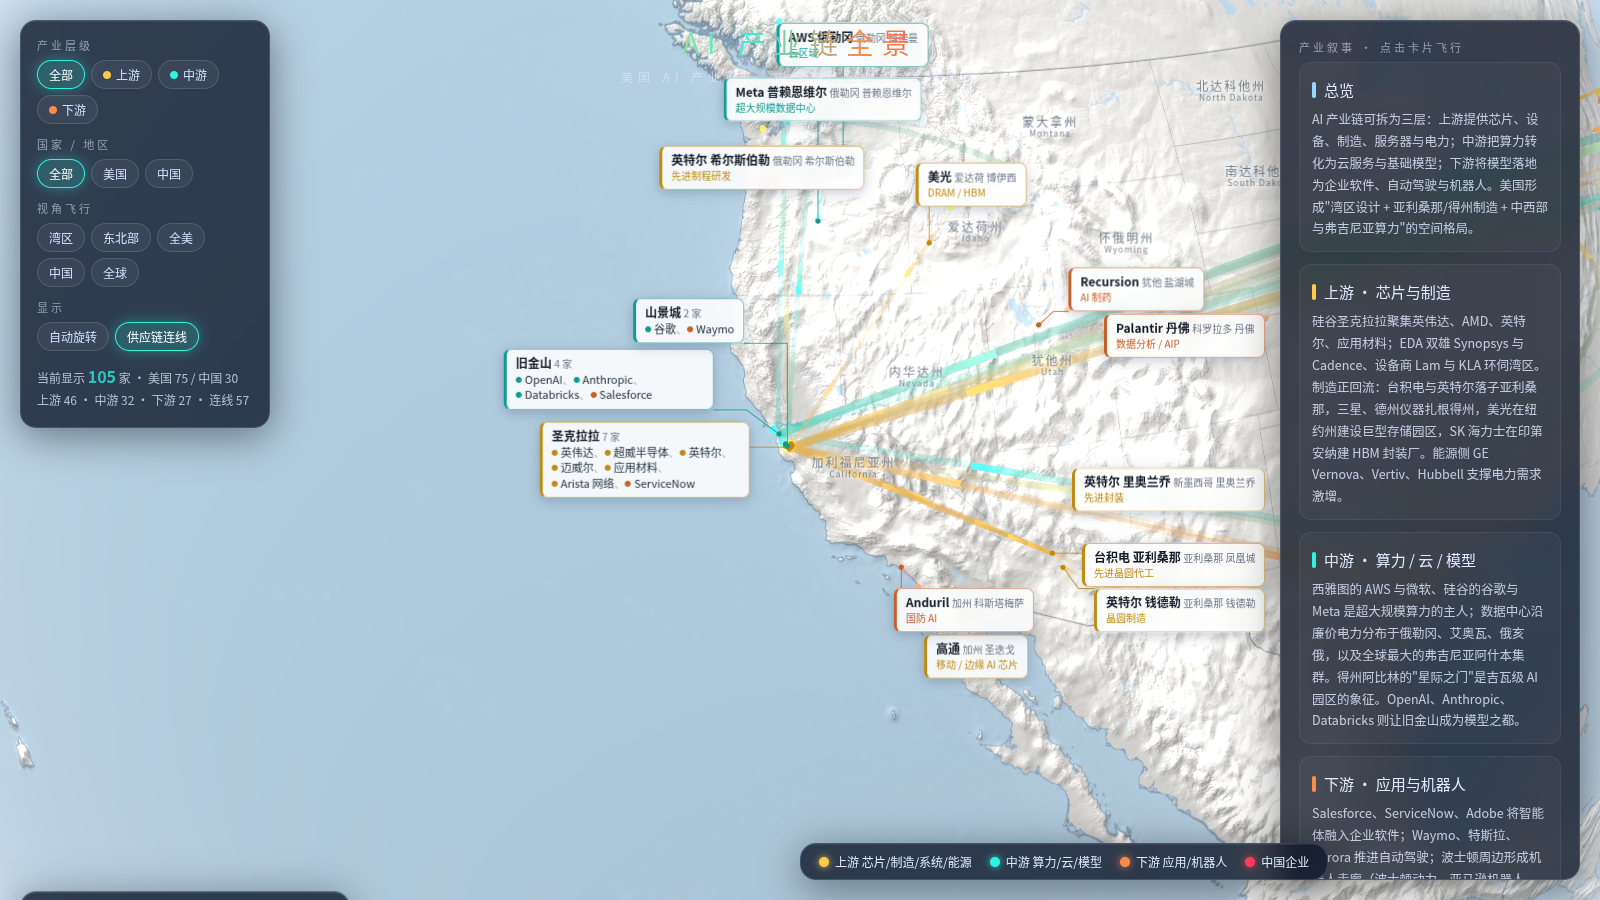
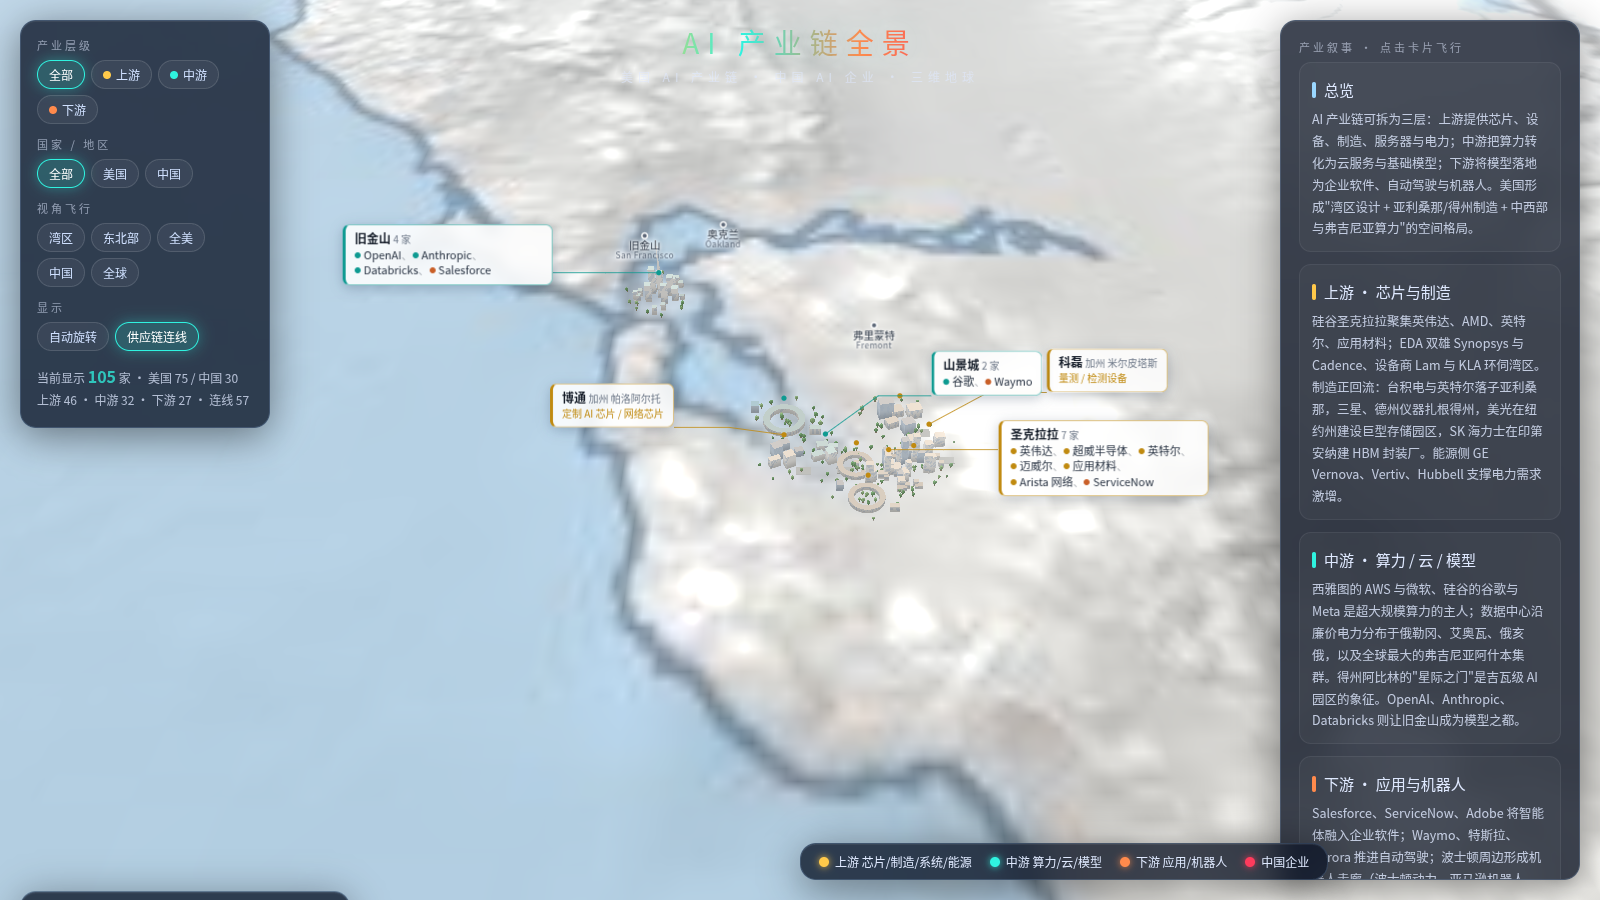
2.5D 微缩建筑群：按角色程序化生成（晶圆厂/园区环/数据中心/市中心/工厂/办公），倾斜视角预设

diff --git a/index.html b/index.html
@@ -245,7 +245,7 @@ const scene=new THREE.Scene();
 const camera=new THREE.PerspectiveCamera(42,innerWidth/innerHeight,.01,200);
 camera.position.set(0,0,14);
 const controls=new OrbitControls(camera,renderer.domElement);
-controls.enableDamping=true;controls.dampingFactor=.06;controls.minDistance=1.25;controls.maxDistance=12;controls.rotateSpeed=.5;controls.zoomSpeed=.7;controls.enablePan=false;
+controls.enableDamping=true;controls.dampingFactor=.06;controls.minDistance=1.03;controls.maxDistance=12;controls.rotateSpeed=.5;controls.zoomSpeed=.7;controls.enablePan=false;
 controls.autoRotateSpeed=.35;
 
 const ll2v=(lat,lon,r=R)=>{const p=(90-lat)*Math.PI/180,t=(lon+180)*Math.PI/180;return new THREE.Vector3(-r*Math.sin(p)*Math.cos(t),r*Math.cos(p),r*Math.sin(p)*Math.sin(t));};
@@ -348,13 +348,17 @@ function updateStats(){const v=markers.filter(visible);const cnt=k=>v.filter(o=>
 const grp=(id,attr,fn)=>document.querySelectorAll(`#${id} button`).forEach(b=>b.onclick=()=>{document.querySelectorAll(`#${id} button`).forEach(x=>x.classList.remove('on'));b.classList.add('on');fn(b.dataset[attr]);});
 grp('layerBtns','l',v=>{fLayer=v;applyFilter();});
 grp('ctyBtns','c',v=>{fCty=v;applyFilter();if(v==='CN')flyTo('cn');else if(v==='US')flyTo('us');});
-const rotBtn=document.getElementById('rotBtn');rotBtn.onclick=()=>{controls.autoRotate=!controls.autoRotate;rotBtn.classList.toggle('on',controls.autoRotate);};
+const rotBtn=document.getElementById('rotBtn');rotBtn.onclick=()=>{if(!controls.autoRotate&&controls.target.lengthSq()>0){flyTo('globe');setTimeout(()=>{controls.autoRotate=true;rotBtn.classList.add('on');},2300);return;}controls.autoRotate=!controls.autoRotate;rotBtn.classList.toggle('on',controls.autoRotate);};
 const arcBtn=document.getElementById('arcBtn');arcBtn.onclick=()=>{showArcs=!showArcs;arcBtn.classList.toggle('on',showArcs);};
 
-const PRESETS={bay:[37.3,-121.6,1.62],ne:[41.2,-75.5,1.9],us:[38.5,-97,2.7],cn:[33,112,2.6],globe:[30,-40,4.2]};
+const PRESETS={bay:[37.5,-122.12,.03,46],ne:[41.4,-74.2,.5,42],us:[38.5,-97,2.7],cn:[29.5,113.5,.95,38],globe:[30,-40,4.2]};
 let fly=null;
-function flyTo(k,latlon){const [lat,lon,d]=latlon||PRESETS[k];const from=camera.position.clone();const to=ll2v(lat,lon,d);
- fly={from,to,t:0,dur:2.2};controls.autoRotate=false;rotBtn.classList.remove('on');}
+function flyTo(k,latlon){const [lat,lon,d,tilt=0]=latlon||PRESETS[k];const from=camera.position.clone();let to,tgt;
+ if(tilt){tgt=ll2v(lat,lon,R);const n=tgt.clone().normalize();const east=new THREE.Vector3(0,1,0).cross(n).normalize();const north=n.clone().cross(east);
+  const tr=tilt*Math.PI/180;to=tgt.clone().addScaledVector(n,Math.cos(tr)*d).addScaledVector(north,-Math.sin(tr)*d);}
+ else{to=ll2v(lat,lon,d);tgt=new THREE.Vector3();}
+ controls.minDistance=.02;controls.maxDistance=12;
+ fly={from,to,t:0,dur:2.2,tf:controls.target.clone(),tt:tgt,surf:!!tilt};controls.autoRotate=false;rotBtn.classList.remove('on');}
 document.querySelectorAll('#flyBtns button').forEach(b=>b.onclick=()=>{document.querySelectorAll('#flyBtns button').forEach(x=>x.classList.remove('on'));b.classList.add('on');flyTo(b.dataset.f);});
 const ease=t=>t<.5?4*t*t*t:1-Math.pow(-2*t+2,3)/2;
 function slerpCam(f,t){const a=f.from.length(),b=f.to.length();const da=f.from.clone().normalize(),db=f.to.clone().normalize();
@@ -407,6 +411,93 @@ function buildCards(){groups.forEach(g=>{g.vis=g.ms.filter(visible);if(!g.vis.le
  else g.el.innerHTML=`<b>${g.city.split(' ').pop()}</b> <span class="c">${g.vis.length} 家</span><div>${g.vis.map(o=>`<span class="n" data-id="${o.id}"><i style="display:inline-block;width:6px;height:6px;border-radius:50%;margin-right:3px;vertical-align:1px;background:${ink(o)}"></i>${o.cn}</span>`).join('<span style="opacity:.4">、</span>')}</div>`;
  g.el.style.transform='none';g.el.style.display='block';g.el.style.visibility='hidden';g.w=g.el.offsetWidth;g.h=g.el.offsetHeight;g.el.style.visibility='';g.el.style.display='none';g.init=false;});}
 const _applyFilter=applyFilter;applyFilter=function(){_applyFilter();buildCards();};
+// ================= MINIATURE BUILDINGS =================
+const FAB=new Set(['tsmc-az','intc-az','intc-or','intc-nm','ssg','ssg-t','mu','mu-ny','mu-va','gfs','smic','cxmt','ymtc','txn','skh','cohr']);
+const DC=new Set(['stargate','aws-or','aws-oh','aws-va','goog-or','goog-ia','meta-or','meta-ia','meta-oh','crwv','dc-gz','dc-nm','dc-nx']);
+const FACT=new Set(['tsla','de','gm','rok','ubtech','byd','unitree','bd','amzr','vrt','hubb','ter','cgnx','dell','hpe','smci']);
+const DOWNTOWN=new Set(['加州 旧金山','加州 圣何塞','纽约州 纽约市','上海','广东 深圳','北京','浙江 杭州','华盛顿 西雅图','伊利诺伊 芝加哥','得州 奥斯汀','加州 圣克拉拉','安徽 合肥','湖北 武汉','山东 济南','科罗拉多 丹佛','密歇根 底特律/迪尔伯恩']);
+const RING=new Set(['加州 库比蒂诺','加州 桑尼维尔','加州 门洛帕克']);
+function bType(g){const ids=g.ms.map(o=>o.id);
+ if(g.city==='加州 旧金山')return 'sf';if(RING.has(g.city))return 'ring';
+ if(ids.some(i=>FAB.has(i))&&!DOWNTOWN.has(g.city))return 'fab';
+ if(ids.some(i=>DC.has(i)))return 'dc';
+ if(DOWNTOWN.has(g.city)&&g.ms.length>=2)return 'downtown';
+ if(ids.every(i=>FACT.has(i)))return 'factory';
+ return 'office';}
+function rng(seed){let s=seed>>>0||1;return()=>{s=(s*1664525+1013904223)>>>0;return s/4294967296;};}
+const P=[],N=[],C=[],F=[],A=[],G=[],MR=[];const SMR=[];let curMR=1;const SP=[],SA=[],SG=[];
+const PASTEL=new THREE.Color('#f4f3ef'),GREY=new THREE.Color('#dcdcd8'),TREE=new THREE.Color('#9cbf8a'),TREE2=new THREE.Color('#7fae78'),GLASS=new THREE.Color('#cfdbe6');
+let curA,curG,curAcc;
+function push(geo,mat,col,flag){const g=geo.index?geo.toNonIndexed():geo;g.applyMatrix4(mat);g.computeVertexNormals();
+ const p=g.attributes.position.array,n=g.attributes.normal.array;
+ for(let i=0;i<p.length;i+=3){P.push(p[i],p[i+1],p[i+2]);N.push(n[i],n[i+1],n[i+2]);
+  const c=(flag>0&&n[i+2]>.9)?col.clone().lerp(curAcc,.32):col;C.push(c.r,c.g,c.b);F.push(flag);A.push(curA.x,curA.y,curA.z);G.push(curG);MR.push(curMR);}}
+const M=(x,y,z,ry=0)=>new THREE.Matrix4().makeRotationZ(ry).setPosition(x,y,z);
+const box=(x,y,w,d,h,col=PASTEL,flag=1,rot=0)=>{const g=new THREE.BoxGeometry(w,d,h);g.translate(0,0,h/2);push(g,M(x,y,0,rot),col,flag);};
+const cyl=(x,y,r,h,col=PASTEL,flag=2,seg=12,r2)=>{const g=new THREE.CylinderGeometry(r2??r,r,h,seg);g.rotateX(Math.PI/2);g.translate(0,0,h/2);push(g,M(x,y,0),col,flag);};
+const cone=(x,y,r,h,z0,col,seg=6)=>{const g=new THREE.ConeGeometry(r,h,seg);g.rotateX(Math.PI/2);g.translate(0,0,h/2+z0);push(g,M(x,y,0),col,0);};
+const tree=(x,y,s=1,R=Math.random)=>{cyl(x,y,.012*s,.04*s,new THREE.Color('#b8a58c'),0,4);const c=R()<.5?TREE:TREE2;
+ const g=new THREE.IcosahedronGeometry(.045*s,0);g.scale(1,1,1.25);g.translate(0,0,.085*s);push(g,M(x,y,0),c,0);};
+const ring=(x,y,ro,ri,h,col=PASTEL)=>{const s=new THREE.Shape();s.absarc(0,0,ro,0,Math.PI*2);const hole=new THREE.Path();hole.absarc(0,0,ri,0,Math.PI*2,true);s.holes.push(hole);
+ const g=new THREE.ExtrudeGeometry(s,{depth:h,bevelEnabled:false,curveSegments:40});push(g,M(x,y,0),col,1);};
+const shed=(x,y,w,d,h,teeth,col=PASTEL)=>{box(x,y,w,d,h,col,2);for(let i=0;i<teeth;i++){const s=new THREE.Shape();const tw=w/teeth;s.moveTo(0,0);s.lineTo(tw,0);s.lineTo(tw,h*.45);s.lineTo(0,0);
+ const g=new THREE.ExtrudeGeometry(s,{depth:d*.96,bevelEnabled:false});g.rotateX(Math.PI/2);g.translate(-w/2+i*tw,d*.48,h);push(g,M(x,y,0),i%2?GREY:PASTEL,0);}};
+const trees=(R,n,r0,r1)=>{for(let i=0;i<n;i++){const a=R()*6.283,r=r0+R()*(r1-r0);tree(Math.cos(a)*r,Math.sin(a)*r,.8+R()*.5,R);}};
+const BUILD={
+ sf:R=>{const g=new THREE.ConeGeometry(.11,1.5,4);g.rotateX(Math.PI/2);g.rotateZ(Math.PI/4);g.translate(0,0,.75);push(g,M(0,0,0),PASTEL,1);cone(0,0,.02,.35,1.45,PASTEL,4);
+  [[.25,.1,.55],[-.22,.18,.75],[.12,-.25,.6],[-.3,-.15,.45],[.38,-.12,.38],[-.05,.35,.5],[.28,.32,.32]].forEach(([x,y,h])=>box(x,y,.16,.16,h*(.9+R()*.3)));
+  for(let i=0;i<10;i++){const a=R()*6.28,r=.45+R()*.3;box(Math.cos(a)*r,Math.sin(a)*r,.12,.12,.12+R()*.15);}trees(R,10,.7,.95);},
+ downtown:R=>{const n=8+Math.floor(R()*5);for(let i=0;i<n;i++){const a=R()*6.28,r=Math.sqrt(R())*.55;const h=.25+Math.pow(R(),1.6)*(1.1-r*.9);
+   if(R()<.25)cyl(Math.cos(a)*r,Math.sin(a)*r,.07,h*1.1,PASTEL,1,10);else box(Math.cos(a)*r,Math.sin(a)*r,.12+R()*.1,.12+R()*.1,h,R()<.3?GLASS:PASTEL,1,R()*.4);}
+  for(let i=0;i<8;i++){const a=R()*6.28,r=.6+R()*.25;box(Math.cos(a)*r,Math.sin(a)*r,.14,.12,.08+R()*.08,PASTEL,1);}trees(R,12,.7,1);},
+ ring:R=>{ring(0,0,.48,.33,.13);trees(R,9,0,.25);trees(R,10,.58,.9);box(.7,-.35,.25,.15,.18);box(-.68,.4,.18,.18,.22,GLASS);},
+ office:R=>{const n=3+Math.floor(R()*3);for(let i=0;i<n;i++){const a=i/n*6.28+R(),r=.18+R()*.25;box(Math.cos(a)*r,Math.sin(a)*r,.22+R()*.12,.16+R()*.1,.18+R()*.35,R()<.35?GLASS:PASTEL,1,R()*.5);}
+  box(.5,-.45,.4,.25,.012,GREY,0);trees(R,12,.5,.95);},
+ fab:R=>{box(0,0,1.05,.5,.17,PASTEL,2);box(-.15,.42,.55,.28,.24,PASTEL,1);box(.45,.4,.3,.25,.12,GREY,2);
+  [[-.4,-.4],[-.25,-.42],[-.1,-.4]].forEach(([x,y])=>cyl(x,y,.035,.55+R()*.2,PASTEL,2,10,.03));
+  cyl(.35,-.42,.09,.12,GREY,2,14);cyl(.55,-.4,.09,.12,GREY,2,14);trees(R,10,.75,1);},
+ dc:R=>{for(let r=0;r<3;r++){const y=-.4+r*.4;box(0,y,1.0,.28,.11,PASTEL,2);for(let k=0;k<7;k++)box(-.42+k*.14,y,.08,.16,.155,GREY,0);}
+  [[.68,.45],[.68,.25]].forEach(([x,y])=>cyl(x,y,.05,.1,GREY,2,8));box(-.7,.5,.12,.12,.25,PASTEL,1);trees(R,9,.85,1.05);},
+ factory:R=>{shed(0,.05,.9,.55,.12,5);box(-.2,-.45,.4,.2,.2,PASTEL,1);cyl(.4,-.42,.03,.4,PASTEL,2,8);trees(R,10,.75,1);},
+};
+const btype={};groups.forEach((g,i)=>{let nn=9;groups.forEach(h=>{if(h!==g)nn=Math.min(nn,g.n.distanceTo(h.n));});curMR=Math.max(nn*.9,.0009);g.mr=curMR;const t=bType(g);btype[g.city]=t;g.btype=t;curA=g.n.clone().multiplyScalar(R*1.0012);curG=i;
+ const ms=g.ms;const cnt={};ms.forEach(o=>{const k=o.cty==='CN'?'CN':o.layer;cnt[k]=(cnt[k]||0)+1;});const k=Object.keys(cnt).sort((a,b)=>cnt[b]-cnt[a])[0];
+ curAcc=new THREE.Color(INK[k]);const Rr=rng([...g.city].reduce((a,c)=>a*31+c.charCodeAt(0),7));BUILD[t](Rr);
+ SP.push(0,0,0);SMR.push(curMR);SA.push(curA.x,curA.y,curA.z);SG.push(i);});
+const bGeo=new THREE.BufferGeometry();
+bGeo.setAttribute('position',new THREE.Float32BufferAttribute(P,3));bGeo.setAttribute('normal',new THREE.Float32BufferAttribute(N,3));
+bGeo.setAttribute('col',new THREE.Float32BufferAttribute(C,3));bGeo.setAttribute('flag',new THREE.Float32BufferAttribute(F,1));
+bGeo.setAttribute('anchor',new THREE.Float32BufferAttribute(A,3));bGeo.setAttribute('gid',new THREE.Float32BufferAttribute(G,1));bGeo.setAttribute('mr',new THREE.Float32BufferAttribute(MR,1));
+const bU={uScale:{value:0},uGV:{value:new Float32Array(128)},uSun:{value:sunDir}};
+const BV=`attribute vec3 anchor;attribute float gid;attribute float mr;uniform float uScale;uniform float uGV[128];
+vec3 frame(vec3 v,vec3 a){vec3 n=normalize(a);vec3 t=normalize(cross(vec3(0.,1.,0.),n));vec3 b=cross(n,t);return t*v.x+b*v.y+n*v.z;}`;
+const bMesh=new THREE.Mesh(bGeo,new THREE.ShaderMaterial({uniforms:bU,
+ vertexShader:BV+`attribute vec3 col;attribute float flag;varying vec3 vC,vN,vLP,vLN;varying float vF;
+ void main(){float v=uGV[int(gid+.5)];vec3 wp=anchor+frame(position,anchor)*min(uScale,mr)*v;vN=frame(normal,anchor);vLP=position;vLN=normal;vC=col;vF=flag;gl_Position=projectionMatrix*viewMatrix*vec4(wp,1.);}`,
+ fragmentShader:`uniform vec3 uSun;varying vec3 vC,vN,vLP,vLN;varying float vF;
+ void main(){vec3 N=normalize(vN);vec3 c=vC;
+  if(vF>.5&&vF<1.5&&abs(vLN.z)<.5&&vLP.z>.03){float hc=dot(vLP.xy,vec2(-vLN.y,vLN.x));float wx=step(.4,fract(hc*34.));float wy=step(.45,fract(vLP.z*34.));c=mix(c,vec3(.56,.66,.78),wx*wy*.6);}
+  float lam=.58+.42*max(dot(N,uSun),0.)+.12*vLN.z;
+  float ao=.68+.32*smoothstep(0.,.3,vLP.z);
+  c*=lam*ao;gl_FragColor=vec4(c,1.);
+  #include <colorspace_fragment>
+ }`}));
+bMesh.frustumCulled=false;scene.add(bMesh);
+// soft contact shadow blobs
+const sGeo=new THREE.BufferGeometry();{const p=[],a=[],gi=[],uv=[],mr=[];SA.forEach((_,j)=>{});
+ for(let i=0;i<SG.length;i++){const ax=SA[i*3],ay=SA[i*3+1],az=SA[i*3+2];const q=[[-1,-1],[1,-1],[1,1],[-1,-1],[1,1],[-1,1]];
+  q.forEach(([x,y])=>{p.push(x*1.3,y*1.3,.004);a.push(ax,ay,az);gi.push(SG[i]);uv.push(x,y);mr.push(SMR[i]);});}
+ sGeo.setAttribute('position',new THREE.Float32BufferAttribute(p,3));sGeo.setAttribute('anchor',new THREE.Float32BufferAttribute(a,3));sGeo.setAttribute('gid',new THREE.Float32BufferAttribute(gi,1));sGeo.setAttribute('uv',new THREE.Float32BufferAttribute(uv,2));sGeo.setAttribute('mr',new THREE.Float32BufferAttribute(mr,1));}
+const sMesh=new THREE.Mesh(sGeo,new THREE.ShaderMaterial({uniforms:bU,transparent:true,depthWrite:false,
+ vertexShader:BV+`varying vec2 vUv;void main(){vUv=uv;float v=uGV[int(gid+.5)];vec3 wp=anchor+frame(position,anchor)*min(uScale,mr)*v;gl_Position=projectionMatrix*viewMatrix*vec4(wp,1.);}`,
+ fragmentShader:`varying vec2 vUv;void main(){float d=length(vUv);float a=smoothstep(1.,.2,d);vec3 c=mix(vec3(.93,.93,.9),vec3(.45,.5,.58),smoothstep(1.,0.,d)*.6);gl_FragColor=vec4(c,a*.45);}`}));
+sMesh.frustumCulled=false;sMesh.renderOrder=1;bMesh.renderOrder=2;scene.add(sMesh);
+let bFade=0;
+function updateBuildings(){const cd=camera.position.length();const tgt=started&&introT>=1?THREE.MathUtils.smoothstep(3.7-cd,0,.7):0;bFade+=(tgt-bFade)*.12;
+ {const h=Math.max(cd-1,.03);bU.uScale.value=THREE.MathUtils.lerp(h<.12?.036:.05,.017,THREE.MathUtils.smoothstep(h,.25,1.5))*h*bFade;}
+ groups.forEach((g,i)=>{const t=g.vis.length?1:0;g.bv=(g.bv||0)+(t-(g.bv||0))*.15;bU.uGV.value[i]=g.bv;});
+ bMesh.visible=sMesh.visible=bFade>.01;return bFade;}
+
 const tmp=new THREE.Vector3(),camDir=new THREE.Vector3();
 function updateCards(){const W=innerWidth,H=innerHeight;const cd=camera.position.length();camDir.copy(camera.position).normalize();
  const sc=THREE.MathUtils.clamp(2.3/cd,.72,1);
@@ -417,7 +508,8 @@ function updateCards(){const W=innerWidth,H=innerHeight;const cd=camera.position
   if(!shown||!g.vis.length||face<.06){g.act=false;return;}
   tmp.copy(g.pos).project(camera);g.dx=(tmp.x+1)/2*W;g.dy=(1-tmp.y)/2*H;if(g.dx<(W>1100?250:0)||g.dx>(W>1100?W-310:W)||g.dy<0||g.dy>H){g.act=false;return;}
   let ox=g.dx-cx,oy=g.dy-cy;const l=Math.hypot(ox,oy)||1;ox/=l;oy/=l;if(l<4){ox=.6;oy=-.8;}
-  const L=28+22*sc,w=g.w*sc,h=g.h*sc;g.sw=w;g.sh=h;
+  if(cd<1.6){const k=THREE.MathUtils.smoothstep(1.6-cd,0,.3);const sx=Math.sign(g.dx-W/2)||1;const vy=(g.dy-H/2)/H*.8;let nx=THREE.MathUtils.lerp(ox,sx,k),ny=THREE.MathUtils.lerp(oy,vy,k);const nl=Math.hypot(nx,ny)||1;ox=nx/nl;oy=ny/nl;}
+  const L=28+22*sc+(cd<1.6?60:0),w=g.w*sc,h=g.h*sc;g.sw=w;g.sh=h;
   g.tx=g.dx+ox*(L+w/2*Math.abs(ox))-0;g.ty=g.dy+oy*(L+h/2*Math.abs(oy));
   if(!g.init){g.x=g.tx;g.y=g.ty;g.init=true;}g.act=true;act.push(g);});
  act.sort((a,b)=>b.vis.length-a.vis.length||b.face-a.face);
@@ -472,22 +564,22 @@ const introFrom=new THREE.Vector3(0,0,14),introTo=ll2v(32,-60,4.2);
 function tick(){const dt=Math.min(clock.getDelta(),.05);const t=clock.elapsedTime;earthU.uTime.value=t;
  if(started&&introT<1){introT=Math.min(1,introT+dt/3.5);const e=ease(introT);const p=introFrom.clone().lerp(introTo,e);
   p.applyAxisAngle(new THREE.Vector3(0,1,0),(1-e)*2.2);camera.position.copy(p);if(introT>=1){controls.autoRotate=true;}}
- if(fly){fly.t+=dt/fly.dur;const e=ease(Math.min(fly.t,1));camera.position.copy(slerpCam(fly,e));if(fly.t>=1)fly=null;}
+ if(fly){fly.t+=dt/fly.dur;const e=ease(Math.min(fly.t,1));camera.position.copy(slerpCam(fly,e));controls.target.lerpVectors(fly.tf,fly.tt,e);if(fly.t>=1){if(!fly.surf){controls.minDistance=1.03;}fly=null;}}
  {const r=new THREE.Vector3().setFromMatrixColumn(camera.matrixWorld,0),u=new THREE.Vector3().setFromMatrixColumn(camera.matrixWorld,1),f=camera.position.clone().normalize();sunDir.copy(f).multiplyScalar(.75).addScaledVector(r,-.45).addScaledVector(u,.55).normalize();}
  const cd=camera.position.length();const sc=THREE.MathUtils.clamp((cd-1)/2.2,.35,1.6);
  markers.forEach((o,i)=>{const delay=started?THREE.MathUtils.clamp(introT*3-1.6-i*.004,0,1):0;
   o.vis+=(o.target*delay-o.vis)*Math.min(1,dt*6);const hi=(o===hovered||o===selected)?1:0;
   o.pillar.material.uniforms.uHi.value+=(hi-o.pillar.material.uniforms.uHi.value)*.2;o.ring.material.uniforms.uHi.value=o.pillar.material.uniforms.uHi.value;
-  const s=Math.max(o.vis,.0001);o.group.scale.set(s*sc,s*sc,s*(.6+.4*sc));o.group.visible=o.vis>.01;
+  const s=Math.max(o.vis,.0001);o.group.scale.set(s*sc,s*sc,s*(.6+.4*sc));o.group.visible=o.vis>.01;o.pillar.visible=o.ring.visible=o.head.visible=bFade<.35;
   o.head.scale.setScalar(.0042*(1+hi*.8));});
- arcs.forEach(a=>{const tg=showArcs&&visible(a.A)&&visible(a.B)&&introT>=1?1:0;a.op+=(tg-a.op)*Math.min(1,dt*3);a.m.uniforms.uOp.value=a.op;a.mesh.visible=a.op>.01;});
- controls.update();
+ arcs.forEach(a=>{const tg=showArcs&&visible(a.A)&&visible(a.B)&&introT>=1?1:0;a.op+=(tg-a.op)*Math.min(1,dt*3);a.m.uniforms.uOp.value=a.op*THREE.MathUtils.smoothstep(camera.position.length(),1.12,1.6);a.mesh.visible=a.op>.01;});
+ controls.update();{const nr=THREE.MathUtils.clamp((camera.position.length()-1)*.25,.0004,.05);if(Math.abs(nr-camera.near)>1e-5){camera.near=nr;camera.updateProjectionMatrix();}}
  hovered=started&&!fly?pick():null;renderer.domElement.style.cursor=hovered?'pointer':'grab';
  if(hovered){label.style.opacity=1;label.style.left=mx+'px';label.style.top=my+'px';label.innerHTML=`<b style="color:#${hovered.color.getHexString()}">●</b> ${hovered.cn} <span style="opacity:.55">· ${hovered.city}</span>`;}else label.style.opacity=0;
- updateCards();composer.render();requestAnimationFrame(tick);}
+ updateBuildings();updateCards();composer.render();requestAnimationFrame(tick);}
 tick();
 addEventListener('resize',()=>{camera.aspect=innerWidth/innerHeight;camera.updateProjectionMatrix();renderer.setSize(innerWidth,innerHeight);composer.setSize(innerWidth,innerHeight);bloom.resolution.set(innerWidth,innerHeight);});
-window.__flyTo=flyTo;window.__setLayer=v=>document.querySelector(`#layerBtns button[data-l="${v}"]`).click();window.__ctl=controls;window.__setCty=v=>document.querySelector(`#ctyBtns button[data-c="${v}"]`).click();
+window.__flyTo=flyTo;window.__dbg=()=>({sc:bU.uScale.value,f:bFade,n:bGeo.attributes.position.count,gv:Array.from(bU.uGV.value.slice(0,5)),vis:bMesh.visible});window.__setLayer=v=>document.querySelector(`#layerBtns button[data-l="${v}"]`).click();window.__ctl=controls;window.__setCty=v=>document.querySelector(`#ctyBtns button[data-c="${v}"]`).click();
 </script>
 </body>
 </html>
